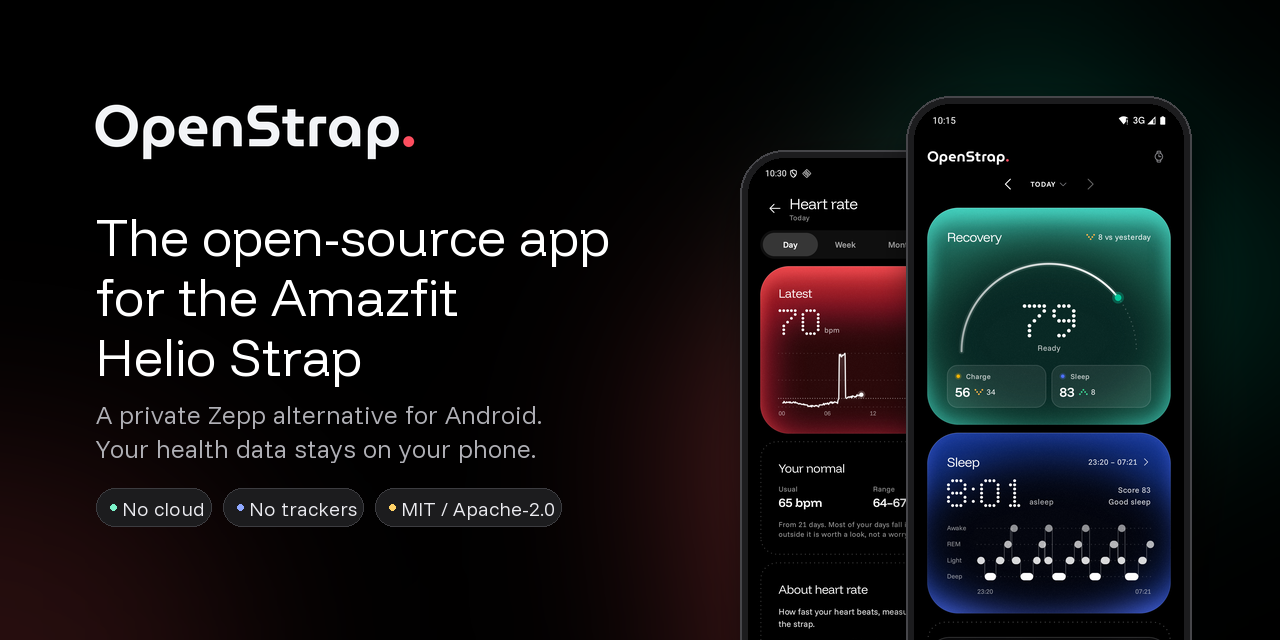
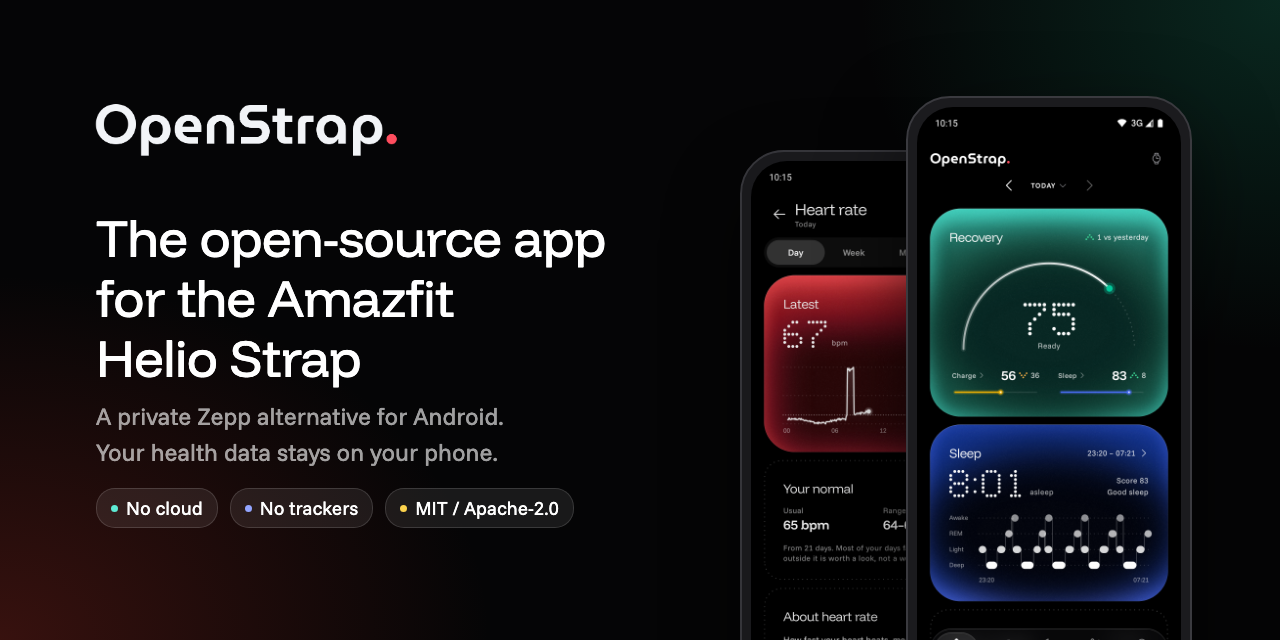
Social preview card with the new screenshots
Same 1280x640 layout, now showing the current Today (progress-bar
scores) and Heart rate screens. Text stays inside GitHub's 40 px safe
border. social-preview.html is the card's source, so it can be
re-rendered with headless Chrome after the screenshots change.

diff --git a/docs/assets/social-preview.html b/docs/assets/social-preview.html
@@ -1,0 +1,32 @@
+<!doctype html><html><head><meta charset="utf-8">
+<!-- Source of social-preview.png (1280x640). Re-render after updating docs/screenshots:
+     "/Applications/Google Chrome.app/Contents/MacOS/Google Chrome" --headless=new --hide-scrollbars --force-device-scale-factor=1 --window-size=1280,640 --screenshot=$PWD/docs/assets/social-preview.png file://$PWD/docs/assets/social-preview.html -->
+<style>
+@font-face{font-family:FD;src:url(../../app/src/main/res/font/funnel_display.ttf)}
+@font-face{font-family:FS;src:url(../../app/src/main/res/font/funnel_sans.ttf)}
+html,body{margin:0;width:1280px;height:640px;overflow:hidden;background:#050506}
+body{position:relative;font-family:FS;color:#fff;
+ background:radial-gradient(700px 520px at 0% 100%,rgba(150,40,30,.35),transparent 70%),
+            radial-gradient(600px 500px at 100% 0%,rgba(20,120,90,.30),transparent 70%),#050506}
+.logo{position:absolute;left:86px;top:96px;height:68px}
+h1{position:absolute;left:96px;top:208px;margin:0;font-family:FD;font-weight:400;font-size:52px;line-height:60px;white-space:nowrap;letter-spacing:-.5px;width:560px}
+.sub{position:absolute;left:96px;top:398px;font-size:24px;line-height:36px;color:rgba(255,255,255,.62)}
+.chips{position:absolute;left:96px;top:488px;display:flex;gap:12px}
+.chip{display:flex;align-items:center;gap:8px;height:38px;padding:0 14px;border-radius:19px;background:rgba(255,255,255,.08);border:1px solid rgba(255,255,255,.14);font-size:19px}
+.dot{width:7px;height:7px;border-radius:50%}
+.phone{position:absolute;width:286px;height:620px;border-radius:44px;background:#1b1b1e;border:2px solid #3a3a3f;padding:9px;box-sizing:border-box;box-shadow:0 30px 80px rgba(0,0,0,.6)}
+.phone img{width:100%;border-radius:36px;display:block}
+.back{left:740px;top:150px;opacity:.92}
+.front{left:906px;top:96px}
+</style></head><body>
+<img class="logo" src="logo-dark.png">
+<h1>The open-source app<br>for the Amazfit<br>Helio Strap</h1>
+<div class="sub">A private Zepp alternative for Android.<br>Your health data stays on your phone.</div>
+<div class="chips">
+ <div class="chip"><span class="dot" style="background:#5eead4"></span>No cloud</div>
+ <div class="chip"><span class="dot" style="background:#93a5ff"></span>No trackers</div>
+ <div class="chip"><span class="dot" style="background:#fcd34d"></span>MIT / Apache-2.0</div>
+</div>
+<div class="phone back"><img src="../screenshots/heart-rate.png"></div>
+<div class="phone front"><img src="../screenshots/today.png"></div>
+</body></html>
